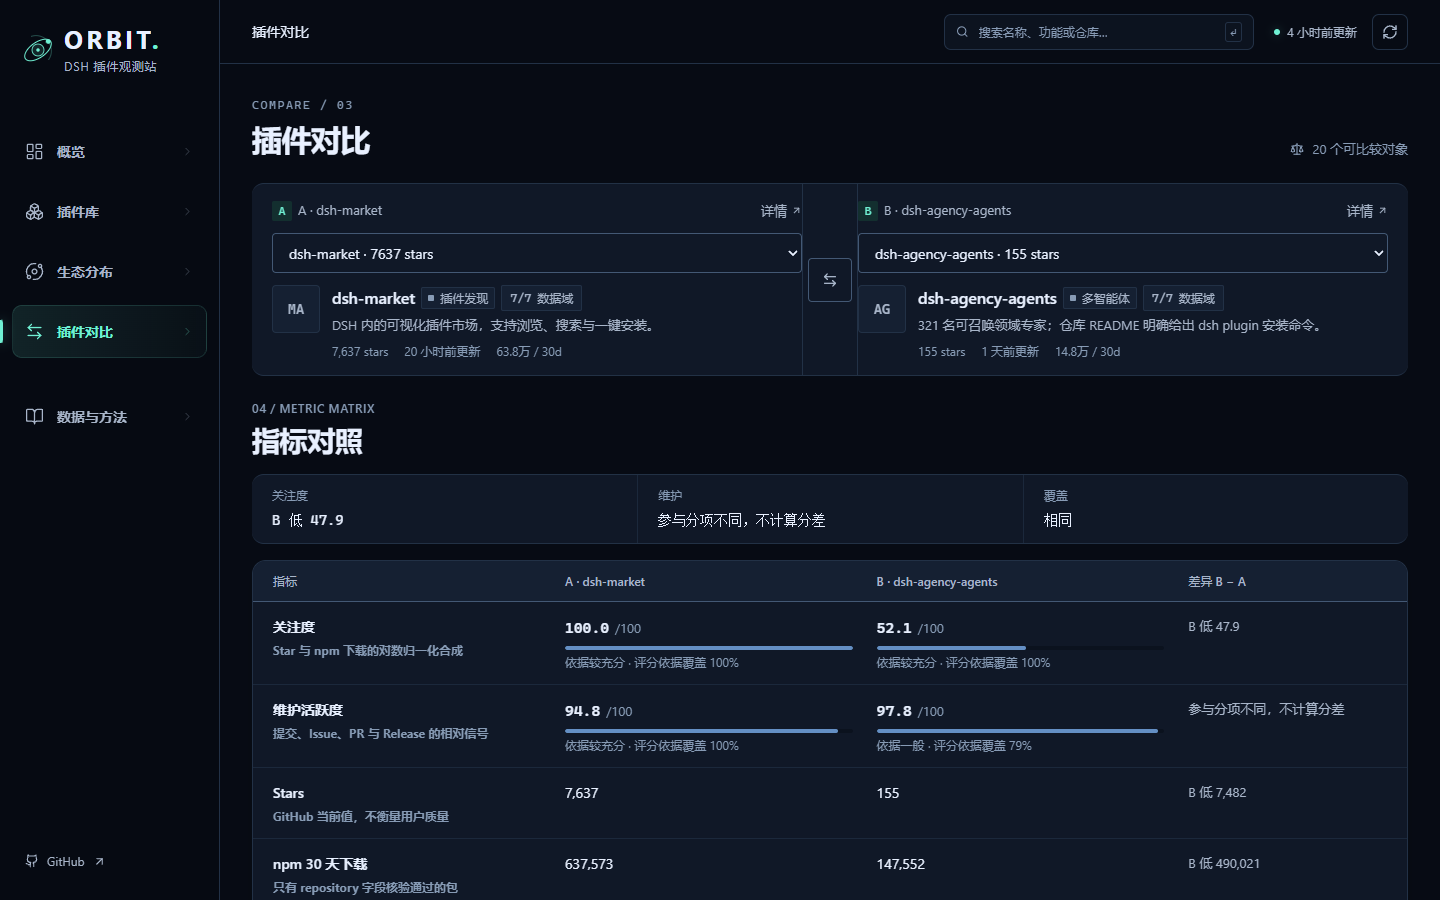
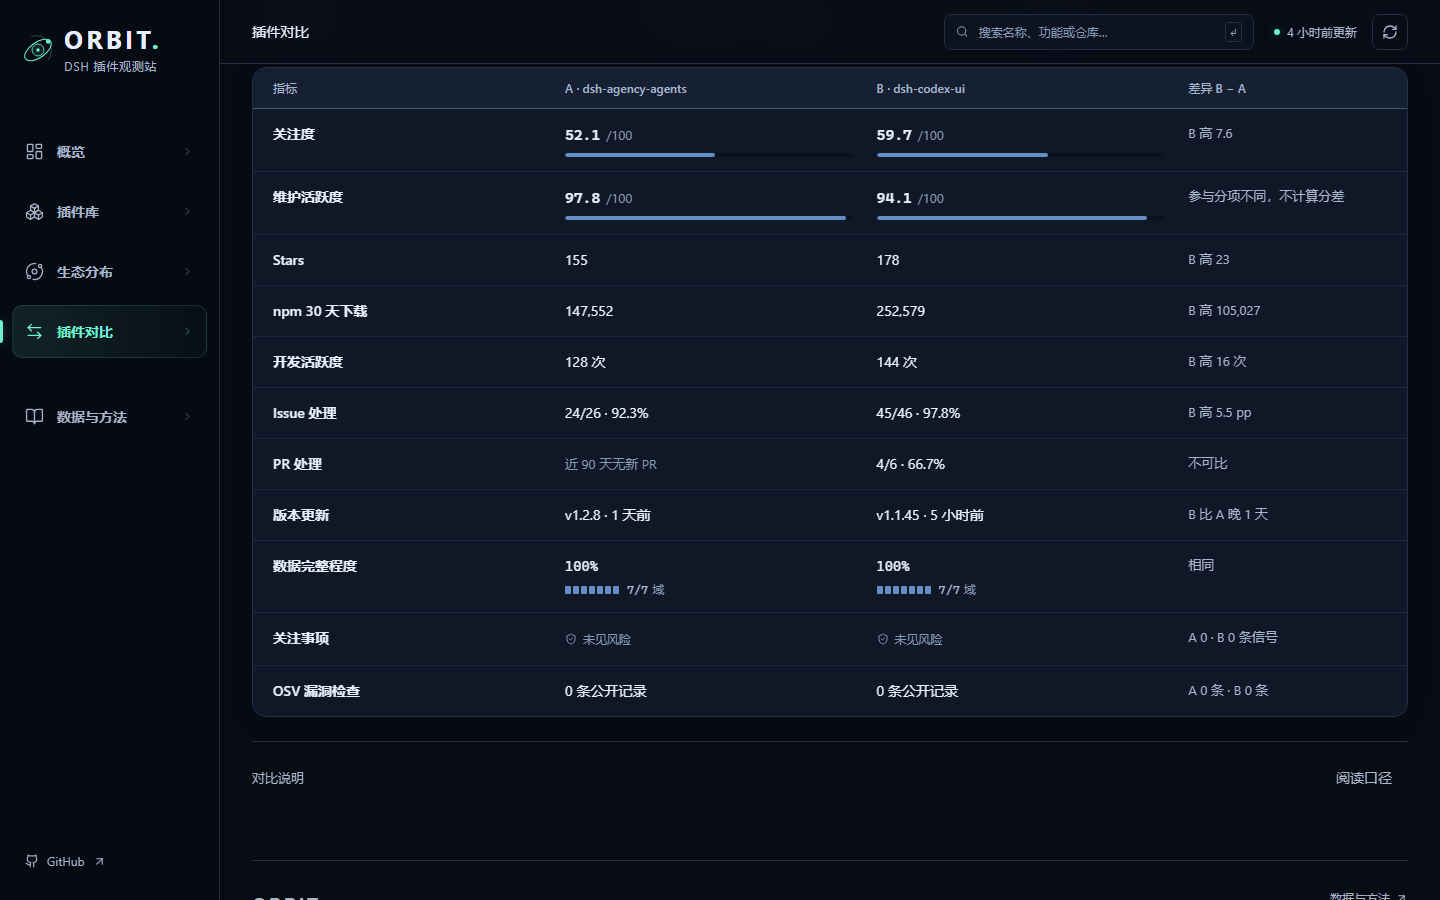
refine(ui): reveal metric notes on hover and keep chart halos moving

diff --git a/src/pages/PluginDetailPage.tsx b/src/pages/PluginDetailPage.tsx
@@ -50,7 +50,9 @@ import {
   SectionHeading,
 } from '../components/ui';
 import { cn } from '../lib/cn';
+import { ScoreHint } from '../components/score-hint';
 import { AttentionSummary } from '../components/AttentionSummary';
+import { QuietHint } from '../components/quiet-hint';
 
 const DETAIL_TOC = [
   { id: 'score-summary', label: '评分摘要' },
@@ -194,9 +196,9 @@ function RawMetric({
 }): JSX.Element {
   return (
     <div className="min-w-0 px-4 py-4 md:px-5">
-      <p className="text-2xs font-medium text-content-secondary">{label}</p>
+      <p className="text-2xs font-medium text-content-secondary"><QuietHint text={sub}>{label}</QuietHint></p>
       <p className="mt-1.5 break-words font-mono text-lg font-semibold leading-6 text-content-primary">{value}</p>
-      <p className="mt-1 text-2xs leading-4 text-content-muted">{sub}</p>
+      {value === '—' ? <p className="mt-1 text-2xs leading-4 text-content-muted">{sub}</p> : null}
       {link ? (
         <ExternalTextLink href={link.href} className="mt-1.5 text-2xs">
           {link.label}
@@ -565,23 +567,15 @@ export function PluginDetailPage(): JSX.Element {
               <Star size={13} /> 关注度
             </div>
             <div className="mt-2 flex flex-wrap items-baseline gap-x-1 gap-y-0.5">
-              <span className="readout text-[2.25rem] sm:text-4xl">
-                {formatScore(plugin.scores.popularity.score)}
-              </span>
+              <ScoreHint score={plugin.scores.popularity}>
+                <span className="readout text-[2.25rem] sm:text-4xl">
+                  {formatScore(plugin.scores.popularity.score)}
+                </span>
+              </ScoreHint>
               <span className="text-xs text-content-muted">/ 100</span>
             </div>
             <ScoreBar value={plugin.scores.popularity.score} className="mt-3 w-32" />
-            <p className="mt-2 text-xs leading-5 text-content-muted">
-              {popularityRank ? `本榜第 ${popularityRank.rank} / ${popularityRank.total} · ` : ''}
-              {plugin.scores.popularity.confidence === 'high'
-                ? '依据较充分'
-                : plugin.scores.popularity.confidence === 'medium'
-                  ? '依据一般'
-                  : '依据较少'}
-            </p>
-            <p className="mt-0.5 whitespace-nowrap text-2xs text-content-muted">
-              覆盖 {Math.round(plugin.scores.popularity.coverage * 100)}%
-            </p>
+            {popularityRank ? <p className="mt-2 text-xs leading-5 text-content-muted">本榜第 {popularityRank.rank} / {popularityRank.total}</p> : null}
             <a href="#explain-popularity" className="mt-2 inline-flex min-h-8 items-center gap-1 text-xs text-content-secondary underline-offset-4 hover:text-brand-text hover:underline">
               查看计算 <ArrowRight size={11} aria-hidden="true" />
             </a>
@@ -592,23 +586,15 @@ export function PluginDetailPage(): JSX.Element {
               <GitCommitHorizontal size={13} /> 维护活跃度
             </div>
             <div className="mt-2 flex flex-wrap items-baseline gap-x-1 gap-y-0.5">
-              <span className="readout text-[2.25rem] sm:text-4xl">
-                {formatScore(plugin.scores.maintenance.score)}
-              </span>
+              <ScoreHint score={plugin.scores.maintenance}>
+                <span className="readout text-[2.25rem] sm:text-4xl">
+                  {formatScore(plugin.scores.maintenance.score)}
+                </span>
+              </ScoreHint>
               <span className="text-xs text-content-muted">/ 100</span>
             </div>
             <ScoreBar value={plugin.scores.maintenance.score} className="mt-3 w-32" />
-            <p className="mt-2 text-xs leading-5 text-content-muted">
-              {maintenanceRank ? `本榜第 ${maintenanceRank.rank} / ${maintenanceRank.total} · ` : ''}
-              {plugin.scores.maintenance.confidence === 'high'
-                ? '依据较充分'
-                : plugin.scores.maintenance.confidence === 'medium'
-                  ? '依据一般'
-                  : '依据较少'}
-            </p>
-            <p className="mt-0.5 whitespace-nowrap text-2xs text-content-muted">
-              覆盖 {Math.round(plugin.scores.maintenance.coverage * 100)}%
-            </p>
+            {maintenanceRank ? <p className="mt-2 text-xs leading-5 text-content-muted">本榜第 {maintenanceRank.rank} / {maintenanceRank.total}</p> : null}
             <a href="#explain-maintenance" className="mt-2 inline-flex min-h-8 items-center gap-1 text-xs text-content-secondary underline-offset-4 hover:text-brand-text hover:underline">
               查看计算 <ArrowRight size={11} aria-hidden="true" />
             </a>

diff --git a/src/pages/ComparePage.tsx b/src/pages/ComparePage.tsx
@@ -23,6 +23,7 @@ import {
   SectionHeading,
 } from '../components/ui';
 import { cn } from '../lib/cn';
+import { ScoreHint } from '../components/score-hint';
 import { comparisonText } from '../lib/comparison';
 import { QuietHint } from '../components/quiet-hint';
 
@@ -45,15 +46,13 @@ function scoreValue(plugin: PluginRecord, kind: 'popularity' | 'maintenance'): J
   }
   return (
     <div>
-      <div className="flex items-baseline gap-1.5">
-        <span className="tnum font-mono text-base font-medium text-content-primary">{formatScore(score.score)}</span>
-        <span className="text-xs text-content-muted">/100</span>
-      </div>
+      <ScoreHint score={score}>
+        <span className="flex items-baseline gap-1.5">
+          <span className="tnum font-mono text-base font-medium text-content-primary">{formatScore(score.score)}</span>
+          <span className="text-xs text-content-muted">/100</span>
+        </span>
+      </ScoreHint>
       <ScoreBar value={score.score} className="mt-1.5 w-24" />
-      <p className="mt-1 text-2xs text-content-muted">
-        {score.confidence === 'high' ? '依据较充分' : score.confidence === 'medium' ? '依据一般' : '依据较少'} · 评分依据覆盖{' '}
-        {Math.round(score.coverage * 100)}%
-      </p>
     </div>
   );
 }
@@ -454,7 +453,7 @@ export function ComparePage(): JSX.Element {
         </div>
 
         <div className="panel mt-4 overflow-clip">
-          <div className="hidden lg:block">
+          <div className="hidden lg:block" data-testid="compare-desktop-matrix">
             <table className="w-full table-fixed text-left">
               <colgroup>
                 <col className="w-[26%]" />
@@ -482,8 +481,7 @@ export function ComparePage(): JSX.Element {
                 {rows.map((row) => (
                   <tr key={row.label} className="align-top transition hover:bg-surface-subtle">
                     <th scope="row" className="px-4 py-3.5 md:px-5">
-                      <p className="text-sm font-semibold text-content-primary">{row.label}</p>
-                      <p className="mt-1 text-2xs leading-4 text-content-muted">{row.hint}</p>
+                      <p className="text-sm font-semibold text-content-primary"><QuietHint text={row.hint}>{row.label}</QuietHint></p>
                     </th>
                     <td className="px-3 py-3.5 text-sm text-content-primary">{row.a}</td>
                     <td className="px-3 py-3.5 text-sm text-content-primary">{row.b}</td>
@@ -494,7 +492,7 @@ export function ComparePage(): JSX.Element {
             </table>
           </div>
 
-          <div className="lg:hidden">
+          <div className="lg:hidden" data-testid="compare-mobile-matrix">
             {/* Short A/B labels only; the full names stay available to screen readers. */}
             <div className="flex items-center justify-between gap-2 border-b border-line bg-surface-subtle px-4 py-2.5 text-2xs text-content-secondary">
               <span className="font-mono font-medium text-content-primary">
@@ -509,8 +507,7 @@ export function ComparePage(): JSX.Element {
                 <div key={row.label} className="px-4 py-3.5">
                   <div className="flex items-start justify-between gap-3">
                     <div>
-                      <p className="text-sm font-semibold text-content-primary">{row.label}</p>
-                      <p className="mt-0.5 text-2xs leading-4 text-content-muted">{row.hint}</p>
+                      <p className="text-sm font-semibold text-content-primary"><QuietHint text={row.hint}>{row.label}</QuietHint></p>
                     </div>
                     <span className="max-w-[55%] break-words text-right text-xs text-content-secondary">{row.diff}</span>
                   </div>
@@ -532,10 +529,9 @@ export function ComparePage(): JSX.Element {
       </section>
 
       <div className="mt-6 flex flex-wrap items-center justify-between gap-3 border-t border-line py-4">
-        <p className="max-w-2xl text-xs leading-5 text-content-secondary">
-          对比只呈现指标。一个插件可能因样本小、无 Release 或没有 npm 包而看起来不同；请结合详情页的样本量、口径和原始链接阅读。
-          也不会用单一指标断言谁“更好”。
-        </p>
+        <QuietHint text="样本量、Release 和 npm 数据覆盖可能不同，请结合详情中的原始证据判断。">
+          <span className="text-xs text-content-secondary">对比说明</span>
+        </QuietHint>
         <ButtonLink to="/method" variant="ghost">
           阅读口径
         </ButtonLink>

diff --git a/tests/e2e/app.spec.ts b/tests/e2e/app.spec.ts
@@ -240,18 +240,54 @@ test('quiet headings expose supporting text on hover and keyboard focus only',as
   await expect(page.locator('.page-enter')).toHaveCSS('animation-name','orbit-page-in');
 });
 
-test('scatter halos pause before the pointer reaches the chart and resume away from it',async({page})=>{
-  await page.setViewportSize({width:1440,height:900});await page.goto('/ecosystem');
-  await page.mouse.move(2,2);
-  const halo=page.locator('.orbit-scatter-pulse');await expect(halo).toHaveAttribute('data-state','running');
-  const chart=page.getByRole('img',{name:'可筛选的 DSH 插件生态分布散点图'});
-  const bounds=await chart.boundingBox();if(!bounds)throw new Error('missing chart bounds');
-  await page.mouse.move(bounds.x-30,bounds.y+bounds.height/2);
-  await expect(halo).toHaveAttribute('data-state','paused');
-  const ring=halo.locator('circle').first();
-  const frozen=await ring.evaluate(el=>getComputedStyle(el).transform);
-  await page.waitForTimeout(450);
-  expect(await ring.evaluate(el=>getComputedStyle(el).transform)).toBe(frozen);
-  await page.mouse.move(2,2);await expect(halo).toHaveAttribute('data-state','running');
-  await page.emulateMedia({reducedMotion:'reduce'});await expect(halo).toHaveCount(0);
+test('scatter halos keep moving near and inside both charts',async({page})=>{
+  await page.setViewportSize({width:1440,height:900});
+  for (const path of ['/', '/ecosystem']) {
+    await page.goto(path);await page.mouse.move(2,2);
+    const halo=page.locator('.orbit-scatter-pulse');
+    await expect(halo).toHaveAttribute('data-state','running');
+    const bounds=await halo.boundingBox();if(!bounds)throw new Error('missing chart bounds');
+    for (const x of [bounds.x-30, bounds.x+bounds.width/2]) {
+      await page.mouse.move(x,bounds.y+bounds.height/2);
+      await expect(halo).toHaveAttribute('data-state','running');
+      const ring=halo.locator('circle').first();
+      await expect(ring).toHaveCSS('animation-play-state','running');
+      const before=await ring.evaluate(el=>getComputedStyle(el).transform);
+      await expect.poll(()=>ring.evaluate(el=>getComputedStyle(el).transform)).not.toBe(before);
+    }
+  }
+  await page.emulateMedia({reducedMotion:'reduce'});
+  await expect(page.locator('.orbit-scatter-pulse')).toHaveCount(0);
+});
+
+for (const width of [505,1440]) {
+  test('compare annotations stay hidden until hover or focus at '+width+'px',async({page})=>{
+    await page.setViewportSize({width,height:900});await page.goto(compare);
+    const matrix=page.getByTestId(width<1024?'compare-mobile-matrix':'compare-desktop-matrix');
+    const label=matrix.locator('.orbit-quiet-hint').filter({hasText:/^关注度$/});
+    await label.scrollIntoViewIfNeeded();await page.mouse.move(1,1);
+    await expect(page.getByText('Star 与 npm 下载的对数归一化合成',{exact:true})).toHaveCount(0);
+    await expect(matrix).not.toContainText('评分依据覆盖');
+    await label.hover();
+    await expect(page.getByRole('tooltip')).toHaveText('Star 与 npm 下载的对数归一化合成');
+    await page.keyboard.press('Escape');await expect(page.getByRole('tooltip')).toHaveCount(0);
+    await page.mouse.move(1,1);
+    const score=matrix.locator('.orbit-score-evidence').first();
+    await score.focus();
+    await expect(page.getByRole('tooltip')).toHaveText('依据较充分 · 评分依据覆盖 100%');
+    await page.keyboard.press('Escape');await expect(page.getByRole('tooltip')).toHaveCount(0);
+  });
+}
+
+test('detail supporting metric and score notes use the same quiet hints',async({page})=>{
+  await page.goto(detail);
+  const summary=page.getByLabel('评分摘要');
+  await expect(summary).not.toContainText('依据较充分');
+  await expect(summary).not.toContainText('覆盖');
+  await summary.locator('.orbit-score-evidence').first().focus();
+  await expect(page.getByRole('tooltip')).toContainText('评分依据覆盖');
+  await page.keyboard.press('Escape');
+  const label=page.locator('#raw-metrics .orbit-quiet-hint').filter({hasText:/^Stars$/});
+  await label.hover();
+  await expect(page.getByRole('tooltip')).toHaveText('GitHub 当前值');
 });

diff --git a/src/components/charts/scatter-pulse.tsx b/src/components/charts/scatter-pulse.tsx
@@ -16,8 +16,7 @@ export function ScatterPulse({ container, plugins, enabled }: {
   useEffect(() => {
     if (!enabled || !container.current) return;
     const element = container.current;
-    let resizeFrame = 0, pointerFrame = 0;
-    let pointer: { x: number; y: number } | null = null;
+    let resizeFrame = 0;
     const pause = (reason: string, active: boolean): void => {
       if (active) reasons.current.add(reason); else reasons.current.delete(reason);
       setPaused(reasons.current.size > 0);
@@ -37,42 +36,21 @@ export function ScatterPulse({ container, plugins, enabled }: {
       });
       setPlot({halos,x:x0,y:y0,width:x1-x0,height:y1-y0});
     };
-    const proximity = (): void => {
-      pointerFrame = 0;
-      if (!pointer) return;
-      const rect = element.getBoundingClientRect();
-      const distanceX = Math.max(rect.left-pointer.x,0,pointer.x-rect.right);
-      const distanceY = Math.max(rect.top-pointer.y,0,pointer.y-rect.bottom);
-      pause('pointer', Math.hypot(distanceX,distanceY) <= 56);
-    };
-    const move = (event: PointerEvent): void => {
-      pointer = {x:event.clientX,y:event.clientY};
-      if (!pointerFrame) pointerFrame = requestAnimationFrame(proximity);
-    };
-    const exit = (): void => { pointer=null; pause('pointer',false); };
-    const focus = (): void => { pause('focus',Boolean(element.closest('section')?.contains(document.activeElement))); };
     const visibility = (): void => pause('background',document.hidden);
     const observer = new ResizeObserver(() => {
       cancelAnimationFrame(resizeFrame);
-      resizeFrame = requestAnimationFrame(() => { position(); proximity(); });
+      resizeFrame = requestAnimationFrame(position);
     });
     observer.observe(element);
     const intersection = new IntersectionObserver(([entry])=>pause('offscreen',!entry.isIntersecting));
     intersection.observe(element);
-    document.addEventListener('pointermove',move,{passive:true});
-    document.addEventListener('pointerleave',exit);
-    document.addEventListener('focusin',focus);
-    document.addEventListener('focusout',focus);
     document.addEventListener('visibilitychange',visibility);
-    window.addEventListener('scroll',proximity,{passive:true});
-    visibility(); focus();
+    visibility();
     resizeFrame=requestAnimationFrame(position);
     return () => {
       observer.disconnect(); intersection.disconnect();
-      cancelAnimationFrame(resizeFrame);cancelAnimationFrame(pointerFrame);
-      document.removeEventListener('pointermove',move);document.removeEventListener('pointerleave',exit);
-      document.removeEventListener('focusin',focus);document.removeEventListener('focusout',focus);
-      document.removeEventListener('visibilitychange',visibility);window.removeEventListener('scroll',proximity);
+      cancelAnimationFrame(resizeFrame);
+      document.removeEventListener('visibilitychange',visibility);
       reasons.current.clear();
     };
   }, [container, plugins, enabled]);

diff --git a/src/components/score-hint.tsx b/src/components/score-hint.tsx
@@ -1,0 +1,15 @@
+import type { ReactNode } from 'react';
+import type { PopularityScore } from '../lib/types';
+import { QuietHint } from './quiet-hint';
+
+export function ScoreHint({ score, children }: {
+  score: Pick<PopularityScore, 'status' | 'confidence' | 'coverage'>;
+  children: ReactNode;
+}): JSX.Element {
+  const evidence = score.status !== 'scored'
+    ? '信息不足'
+    : score.confidence === 'high' ? '依据较充分' : score.confidence === 'medium' ? '依据一般' : '依据较少';
+  return <QuietHint className="orbit-score-evidence" text={evidence + ' · 评分依据覆盖 ' + Math.round(score.coverage * 100) + '%'}>
+    {children}
+  </QuietHint>;
+}

diff --git a/src/pages/QuadrantPage.tsx b/src/pages/QuadrantPage.tsx
@@ -268,7 +268,7 @@ export function QuadrantPage(): JSX.Element {
               />
             </div>
             <div className="flex flex-wrap items-center gap-x-4 gap-y-1.5 border-t border-line px-4 py-2.5 text-2xs text-content-muted md:px-5">
-              <QuietHint text="点击气泡或右侧列表选择插件，再从摘要进入详情。鼠标靠近时暂停光晕。">图表交互</QuietHint>
+              <QuietHint text="点击气泡或右侧列表选择插件，再从摘要进入详情。">图表交互</QuietHint>
             </div>
           </div>
 

diff --git a/docs/ORBIT-DELIVERY.md b/docs/ORBIT-DELIVERY.md
@@ -35,7 +35,7 @@
 
 前端里程碑：52d2cde；数据清洗：6426c57；可复现评估：9aabd65。当前工作目录位于 codex/orbit-polish，继承 codex/data-quality，已包含全部前端成果。工作树的最终交付文档和截图另外形成一个本地提交。团队 main 保持原样。
 
-最终检查：类型检查通过；66 项单元测试、27 项浏览器测试通过；生产构建、产物扫描通过。生产预览对六档宽度均无横向溢出，桌面 WebGL 正常启动，较窄屏静态降级，控制台错误为 0。生产预览端口为 4173；开发入口为 5173。
+最终检查：类型检查通过；66 项单元测试、30 项浏览器测试通过；生产构建、产物扫描通过。生产预览对六档宽度均无横向溢出，桌面 WebGL 正常启动，较窄屏静态降级，控制台错误为 0。生产预览端口为 4173；开发入口为 5173。
 
 [评分评估与后续最小修订](SCORING-REVIEW.md) 确认 18/20 提交频率满分、19/20 Issue 分项近似重复、33/190 对维护分同口径。权重扰动下两类榜单最差 Top 5 重合均为 4/5。建议后续先补小样本保护、减少重复计分；本轮不改公式。
 
@@ -46,4 +46,6 @@
 
 删除首页长介绍、侧栏副文案和标题下重复解释；必要说明改为可悬停、聚焦或轻触查看的提示。顶栏仅显示当前页面，移除“工作台”面包屑。页面与导航采用轻量回弹和按压反馈。轨道装置改为带光晕、刻度和卫星的环仪，不再显示说明文字。
 
-生态图只对装饰光晕作低频脉动，数据点位置和值保持固定。鼠标距图表 56px 内或键盘焦点进入图表区域时暂停，移开后继续；离屏、后台暂停，减少动态效果时关闭。27 项浏览器测试包含提示的键盘访问和靠近后暂停验证。最终六档尺寸无横向溢出，生产控制台错误为 0。本轮只修改本地，推送和部署继续暂停。
+生态图只对装饰光晕作低频脉动，数据点位置和值保持固定。前台持续播放，鼠标靠近、悬停和键盘焦点进入均不会暂停；离屏、后台暂停，减少动态效果时关闭。30 项浏览器测试包含提示的键盘访问，以及鼠标靠近和移入首页、生态分布图时持续动画的验证。最终六档尺寸无横向溢出，生产控制台错误为 0。本轮只修改本地，推送和部署继续暂停。
+
+对比页的指标解释及评分依据覆盖统一改为悬停提示，键盘聚焦和触屏轻触也可查看；详情页同类说明沿用相同交互，缺失原因继续可见。评分数值、差异和原始证据保留。

diff --git a/README.md b/README.md
@@ -176,7 +176,7 @@ tests/e2e/     Playwright 浏览器验收
 截至 2026-10-20，基于 18:57（UTC+8）的 20 个插件真实快照：
 
 - TypeScript 检查通过；7 个文件、**66 个单元测试**通过。
-- Chromium **27 个浏览器测试**通过，包含筛选/分页/返回/刷新、旧链接、双选对比、坏数据隔离、局部历史降级及 WebGL 正常与失败路径。
+- Chromium **30 个浏览器测试**通过，包含筛选/分页/返回/刷新、旧链接、双选对比、坏数据隔离、局部历史降级及 WebGL 正常与失败路径。
 - 生产构建与产物检查通过；当前预览无控制台错误。
 - 390、768、1024、1366×768、1440×900、1920×1080 检查无页面横向溢出。
 - 必要 JS/CSS gzip 为 **约 345 KB**；独立 3D 为 136,283 字节，低于必要首屏 450 KB 目标。
